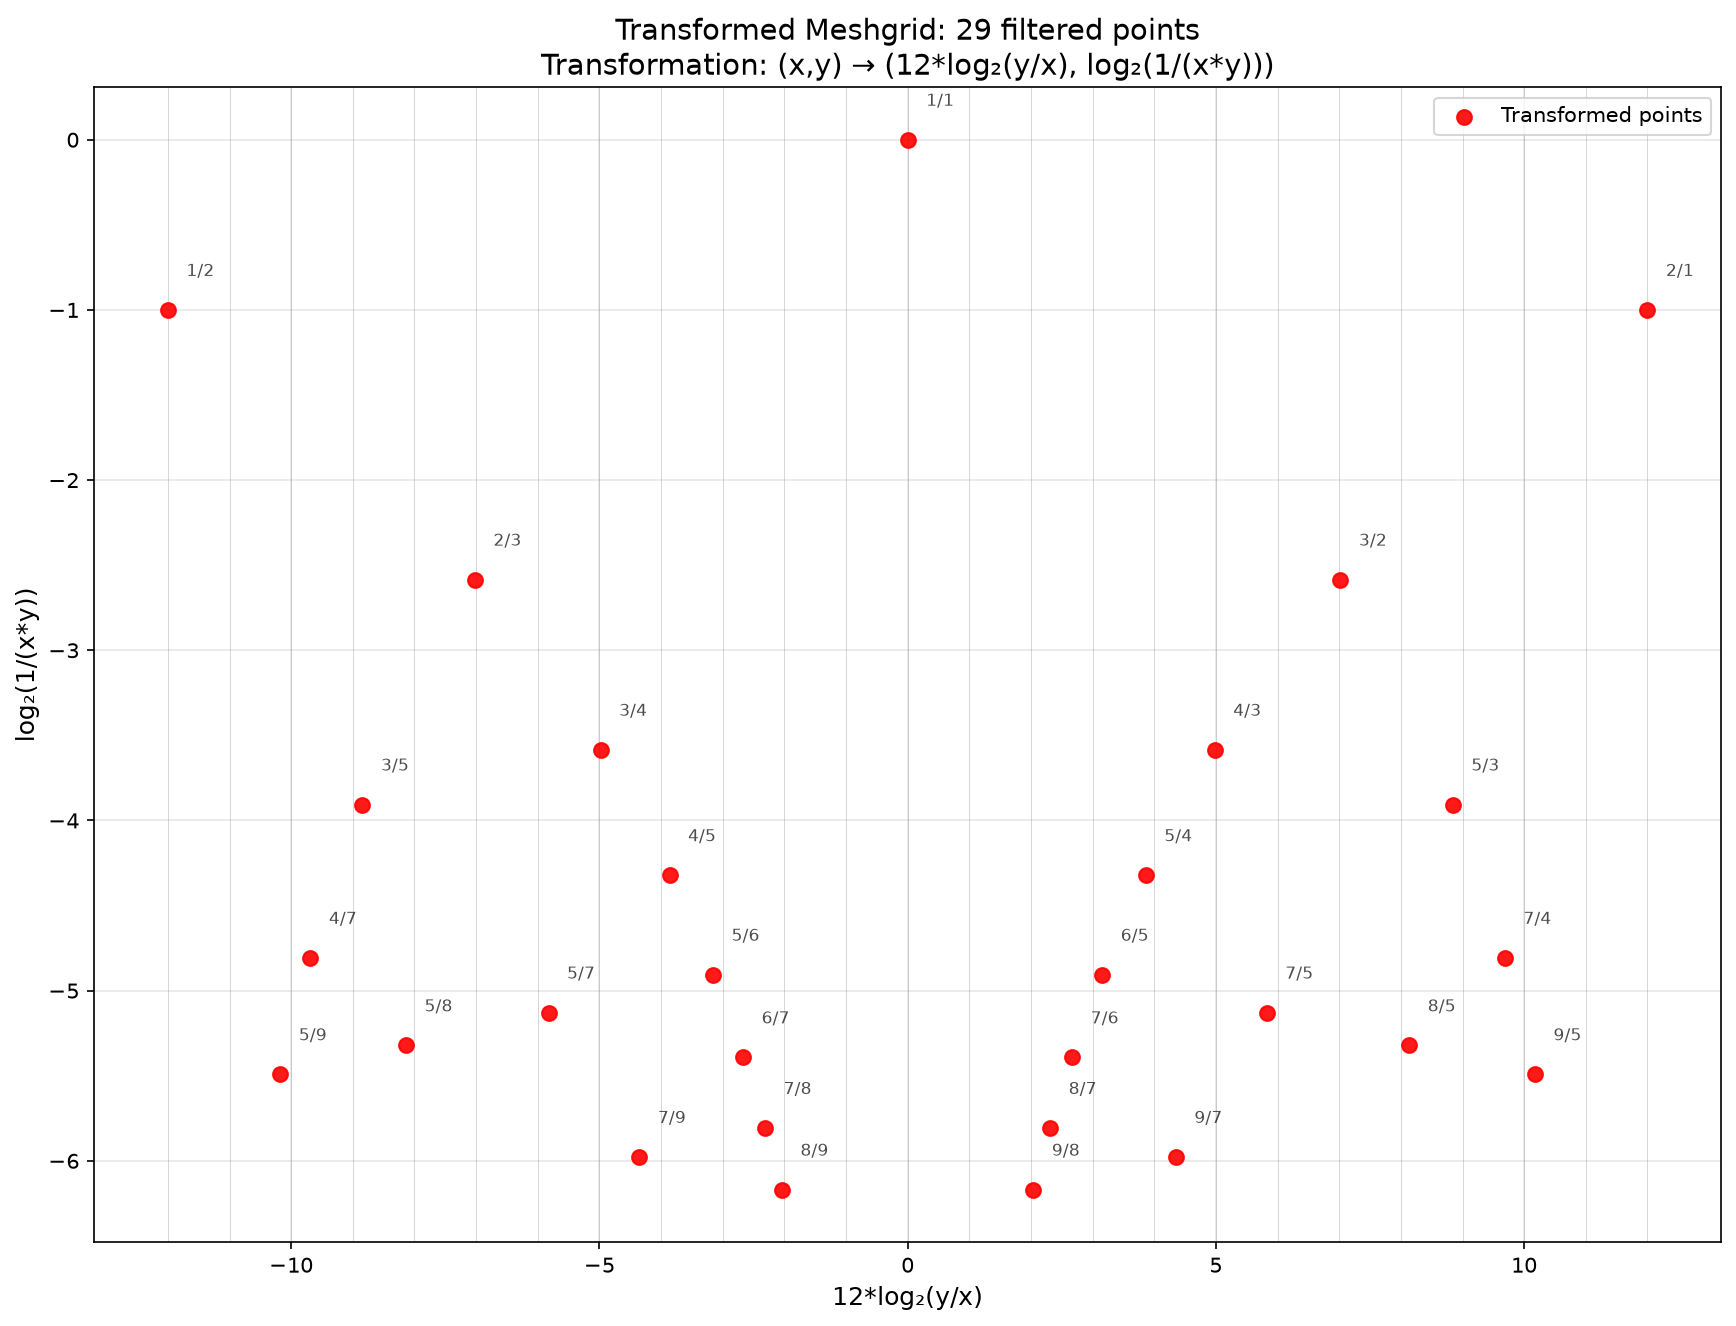
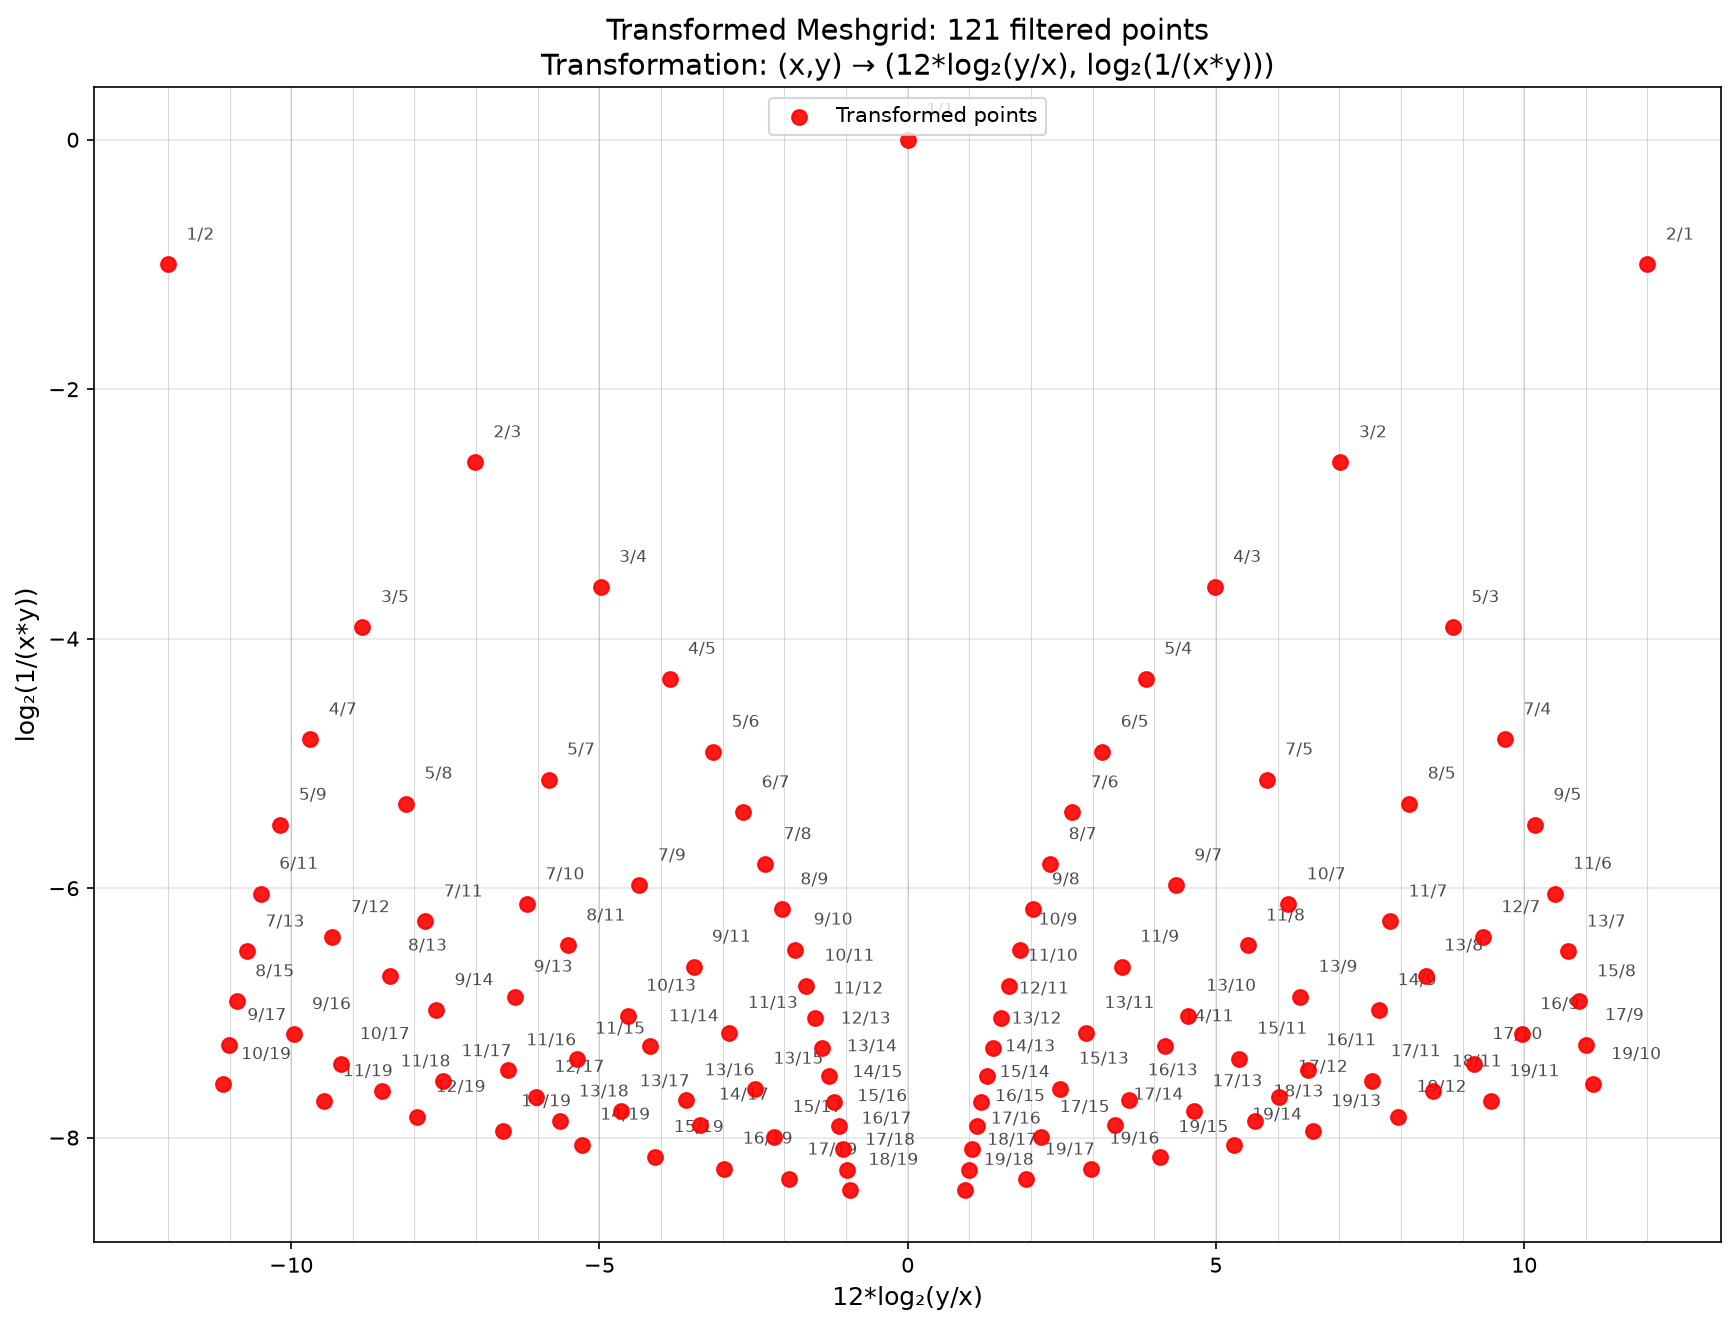
Increase N to 20 and move legend to upper center position

diff --git a/tmo/meshgrid_transformed.py b/tmo/meshgrid_transformed.py
@@ -3,7 +3,7 @@ import matplotlib.pyplot as plt
 from math import gcd, log2
 
 # Number of points along each axis
-N = 10
+N = 20
 
 # Create coordinates: i, j in range(N)
 x = np.arange(N)
@@ -66,7 +66,7 @@ ax.set_xlabel("12*log₂(y/x)", fontsize=12)
 ax.set_ylabel("log₂(1/(x*y))", fontsize=12)
 ax.set_title(f"Transformed Meshgrid: {len(filtered_x)} filtered points\nTransformation: (x,y) → (12*log₂(y/x), log₂(1/(x*y)))", fontsize=14)
 ax.grid(True, alpha=0.3)
-ax.legend(loc='upper right', fontsize=10)
+ax.legend(loc='upper center', fontsize=10)
 
 # Save to file
 output_path = 'meshgrid_transformed.png'

diff --git a/tmo/meshgrid_filtered.py b/tmo/meshgrid_filtered.py
@@ -3,7 +3,7 @@ import matplotlib.pyplot as plt
 from math import gcd
 
 # Number of points along each axis
-N = 10
+N = 20
 
 # Create coordinates: i, j in range(N)
 x = np.arange(N)
@@ -76,7 +76,7 @@ ax.set_ylabel("y (j)", fontsize=12)
 ax.set_title(f"Filtered Meshgrid: Circles with radius = 1/(x*y)\n({len(filtered_x)} points out of {N*N})", fontsize=14)
 ax.set_aspect('equal')
 ax.grid(True, alpha=0.3)
-ax.legend(loc='upper right', fontsize=8)
+ax.legend(loc='upper center', fontsize=8)
 
 # Save to file
 output_path = 'meshgrid_filtered.png'
